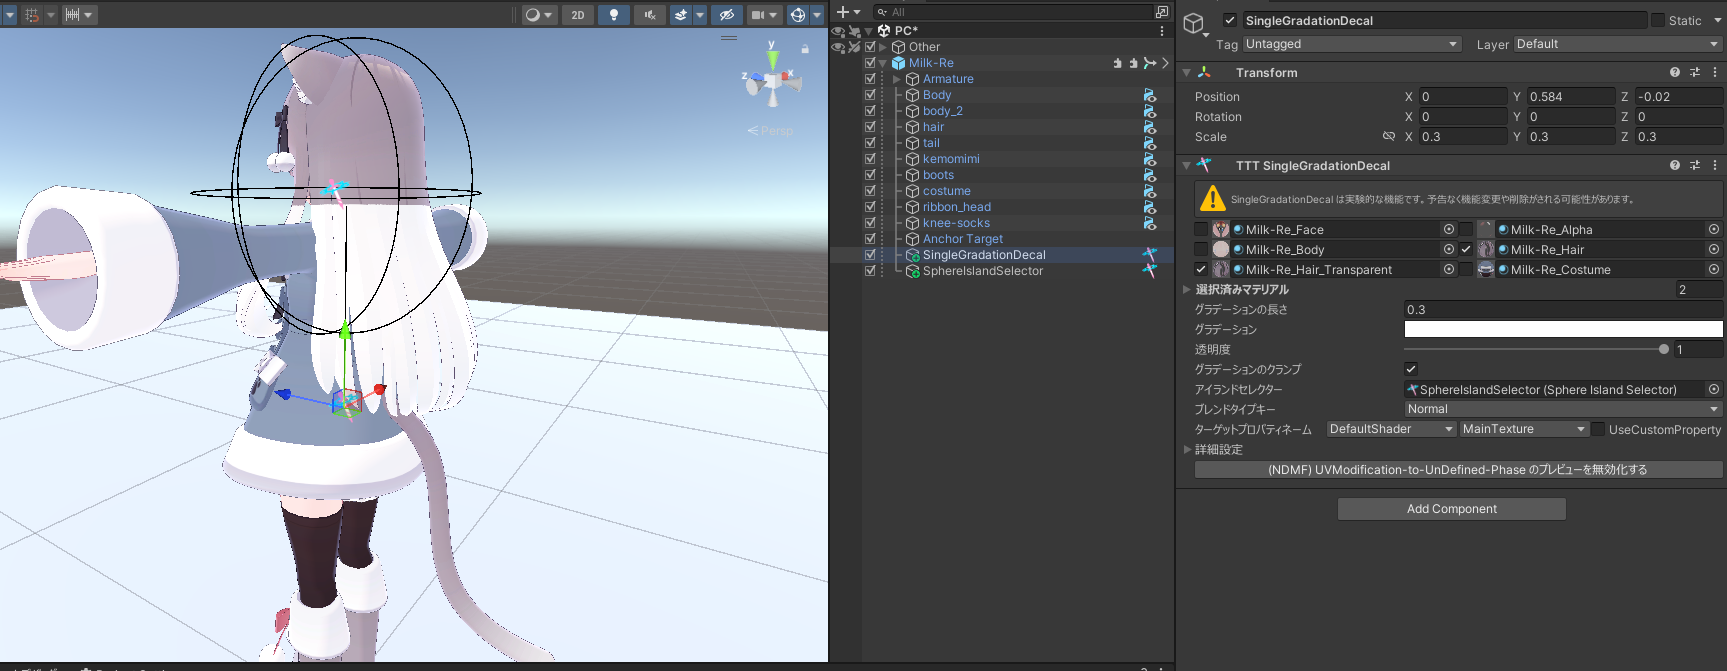
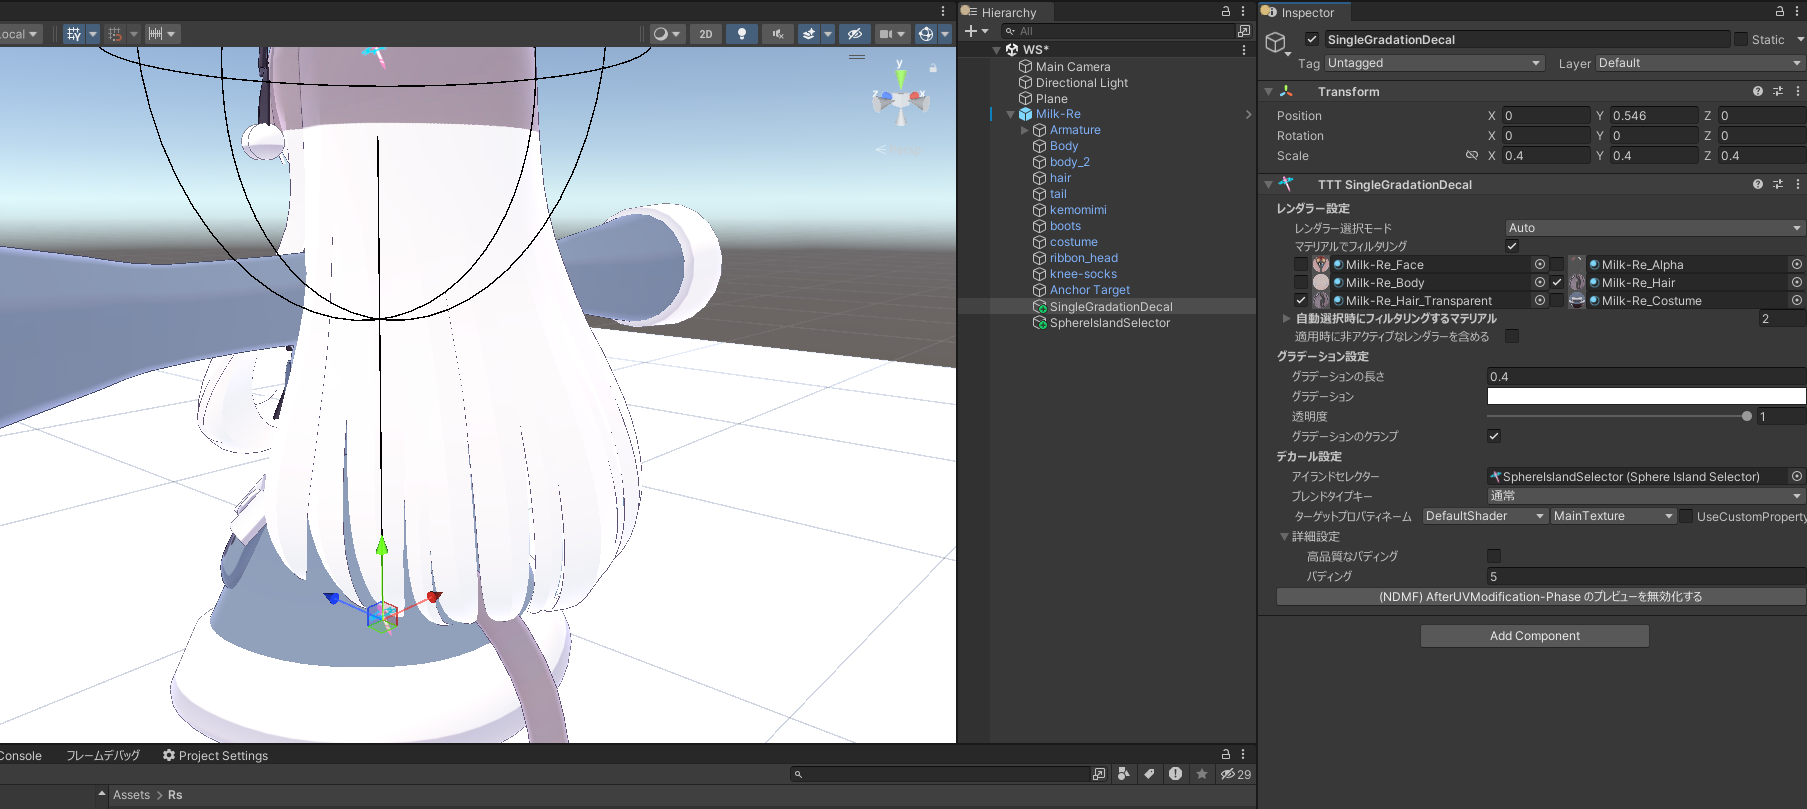
update setup gradation to hair

diff --git a/docs/Tutorial/SetupGradationToHair/index.md b/docs/Tutorial/SetupGradationToHair/index.md
@@ -4,22 +4,22 @@ sidebar_position: 3
 
 # 髪にグラデーションを追加する
 
-手っ取り早く髪の毛とかにグラデーションを入れたいときに！
+手っ取り早く髪の毛とかにグラデーションを入れたいそんなときに！
 
-[SimpleDecal](/docs/Reference/SimpleDecal) はグラデーション用の画像を用意しないといけなくてだるいじゃん...
+[SimpleDecal](/docs/Reference/SimpleDecal) はグラデーション用の画像を用意しないといけない...
 
 そんなときのために！ 汎用性と引き換えに、グラデーションに特化した デカール(?) です！
 
 ## チュートリアル
 
-はじめに、アバターのルートを右クリックしてから、TexTransTool/TTT SingleGradationDecal を選択！  
+はじめに、アバターのルートを右クリックしてから、`TexTransTool/TTT SingleGradationDecal` を選択！  
 ![CreateSingleGradationDecal](img/sgd-CreateSingleGradationDecal.png)
 
-そしたらこのようなインスペクターが表示されるので、グラデーションを入れたい場所のマテリアルを選択します。  
-![SingleGradationDecalInspector](img/sgd-SingleGradationDecalInspector.png)
+そしたらこのようなインスペクターが表示されるので、グラデーションを入れたい場所のマテリアルを選択します。今回は髪の毛のマテリアルですね！  
+![SelectMaterial](img/sgd-SelectMaterial.png)
 
 選択したらこのように真っ白になると思います！　　
-![SelectMaterial](img/sgd-SelectMaterial.png)
+![MaterialSelected](img/sgd-MaterialSelected.png)
 
 後ろから見るとしっぽまで白くなっていますね...今回は髪の毛だけにしたいので アイランドセレクター を使用して髪の毛だけの範囲になるようにしましょう！  
 ![BackSide](img/sgd-BackSide.png)
@@ -27,13 +27,11 @@ sidebar_position: 3
 [アイランドセレクター](/docs/Reference/IslandSelector) と言ってもいろいろなセレクターが存在するのですが...
 
 今回は球体の範囲内に入ったアイランドを選択できる [SphereIslandSelector](/docs/Reference/IslandSelector#boxislandselector--sphereislandselector) を使用しましょう！  
-アバターのルートを右クリックしてから、TexTransTool/TTT SphereIslandSelector を選択！  
+アバターのルートを右クリックしてから、 `TexTransTool/TTT SphereIslandSelector` を選択！  
 ![CreteSphereIslandSelector](img/sgd-CreteSphereIslandSelector.png)
 
-生成できたらこのように表示されると思います。  
+生成できたらこのように表示されると思います。生成したセレクターを登録しましょう！  
 ![ViewSphereIslandSelector](img/sgd-ViewSphereIslandSelector.png)
-
-次に、生成したセレクターを登録しましょう！  
 ![SetIslandSelector](img/sgd-SetIslandSelector.png)
 
 登録できたら、 SphereIslandSelector を適当に大きさ変えたり動かしたりして、髪の毛だけ白くなるようにしましょう！  
@@ -45,13 +43,17 @@ sidebar_position: 3
 ![AdjustSingleGradationDecal](img/sgd-AdjustSingleGradationDecal.png)
 
 最後に、肝心の グラデーション を指定しましょう！ Unity 標準の UI で操作できます。
-キーがそれぞれ、上が透明度、下が色を指定するような形でグラデーションを作成できます！
+キーがそれぞれ、上が透明度、下が色を指定するような形でグラデーションを作成できます。
+左側が原点、右側が上の方に対応しすることが適当に変更すると理解できるでしょう！
 ![Gradation](img/sgd-Gradation.png)
 
-それと、合成モードとなる [ブレンドタイプキー](/docs/Reference/Common/BlendTypeKey) も同時に変更して良いでしょう！
+それと、合成モードとなる [ブレンドタイプキー](/docs/Reference/Common/BlendTypeKey) も同時に変更しても良いでしょう。
+![BlendTypeKey](img/sgd-BlendTypeKey.png)
 
-今回はこのような感じにしてみました！入れたいグラデーションの色や合成、場所などは場合に応じて変わると思うので臨機応変使ってみてください！
+今回はこのような感じにしてみました！入れたいグラデーションの色や合成、場所などは場合に応じて変わると思うので臨機応変にね！
 ![Result](img/sgd-Result.png)
+
+最後に、この状態でこのままアップロードすれば VRChat でも使用できることが確認できます。 髪の毛の色に個性を出したいとき時に使ってみてね！
 
 ## クレジット
 

diff --git a/docs/Tutorial/SetupSimpleDecal/index.md b/docs/Tutorial/SetupSimpleDecal/index.md
@@ -2,7 +2,7 @@
 sidebar_position: 2
 ---
 
-# シンプルなデカールを貼り付ける
+# シンプルなデカールを追加する
 
 アバターに デカール を追加しようとするなら、 UV を理解して外部ツールで適用する必要があったり、物によっては UV の境目を超えることができなかったりします。
 
